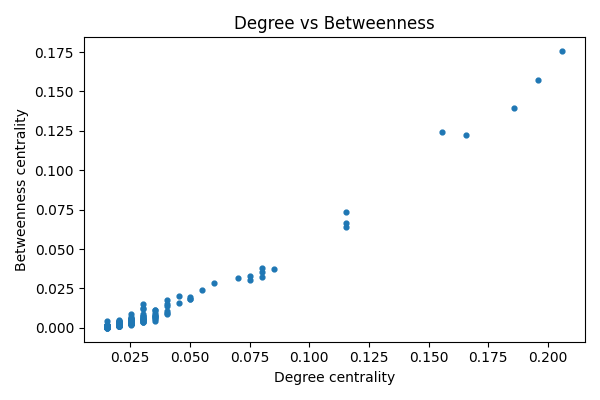
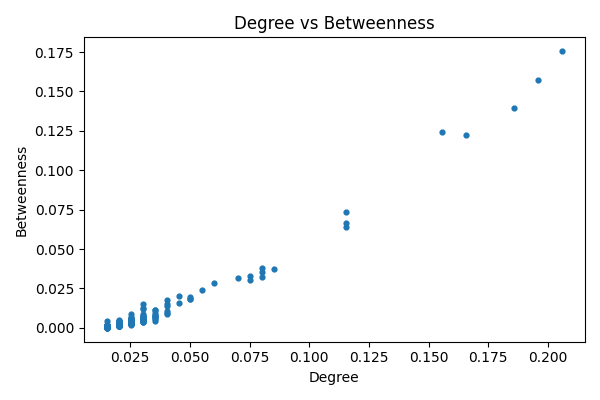
Initial commi

Changed region(s): [[0.03, 0.27, 0.06, 0.69], [0.45, 0.93, 0.66, 0.96]]

diff --git a/src/ppi_centrality_project.py b/src/ppi_centrality_project.py
@@ -1,127 +1,66 @@
 #!/usr/bin/env python3
 """
 ppi_centrality_project.py
+Compute centrality measures on a PPI graph (synthetic or from file).
+Outputs centralities.csv and several PNG plots into an output directory.
 
-Usage examples:
-# 1) Run with your edge list (tab-separated, header or no header):
-python ppi_centrality_project.py --input path/to/edges.tsv --colA "ProteinA" --colB "ProteinB" --sep "\t"
+Usage:
+  # synthetic demo
+  python src/ppi_centrality_project.py --synthetic --out output
 
-# 2) If you don't have a file, create a synthetic PPI-like graph:
-python ppi_centrality_project.py --synthetic
-
-# 3) Make report (DOCX + PPTX):
-python ppi_centrality_project.py --synthetic --make-report
-
-Outputs (default):
-- ./output/centralities.csv
-- ./output/degree_distribution.png
-- ./output/betweenness_distribution.png
-- ./output/degree_vs_betweenness.png
-- ./output/network_visualization.png
-- optional ./output/PPI_Project_Report.docx
-- optional ./output/PPI_Project_Presentation.pptx
+  # using a file (tab-separated)
+  python src/ppi_centrality_project.py --input data/yourfile.tsv --sep "\t" --colA "Official Symbol Interactor A" --colB "Official Symbol Interactor B" --out output
 """
-
 import argparse
 import os
 import sys
-from typing import Tuple
-
-import matplotlib.pyplot as plt
 import networkx as nx
 import pandas as pd
-
-# Optional imports for report generation
-try:
-    from docx import Document
-    from docx.shared import Inches
-    from pptx import Presentation
-    from pptx.util import Inches as PPTInches
-    REPORT_LIBS_AVAILABLE = True
-except Exception:
-    REPORT_LIBS_AVAILABLE = False
-
+import matplotlib.pyplot as plt
 
 def ensure_dir(path: str):
-    if not os.path.exists(path):
-        os.makedirs(path)
-
+    os.makedirs(path, exist_ok=True)
 
 def load_edge_list(path: str, sep: str = "\t", colA: str = None, colB: str = None) -> pd.DataFrame:
-    """
-    Load an edge list file and return a DataFrame with two columns ['A','B'].
-    If colA/colB provided, use them; else try to infer common column names.
-    """
     df_raw = pd.read_csv(path, sep=sep, header=0, dtype=str, low_memory=False)
-    # normalize column names
-    cols = {c.strip(): c for c in df_raw.columns}
-    # if user provided names
+    cols_map = {c.strip(): c for c in df_raw.columns}
     if colA and colB:
-        if colA not in cols or colB not in cols:
-            raise ValueError(f"Provided column names not found in file. Columns found: {list(df_raw.columns)}")
-        df = df_raw[[cols[colA], cols[colB]]].copy()
+        if colA not in cols_map or colB not in cols_map:
+            raise ValueError(f"Columns not found. Available: {list(df_raw.columns)}")
+        df = df_raw[[cols_map[colA], cols_map[colB]]].copy()
     else:
-        # Try common column names
-        candidates = [
-            ("protein1", "protein2"),
-            ("Protein1", "Protein2"),
-            ("interactor_a", "interactor_b"),
-            ("Official Symbol Interactor A", "Official Symbol Interactor B"),
-            ("A", "B"),
-        ]
-        found = False
-        for a, b in candidates:
-            if a in cols and b in cols:
-                df = df_raw[[cols[a], cols[b]]].copy()
-                found = True
-                break
-        if not found:
-            # fall back: take the first two columns
-            df = df_raw.iloc[:, :2].copy()
+        # pick first two columns
+        df = df_raw.iloc[:, :2].copy()
     df.columns = ["A", "B"]
-    # drop NA and self-loops
-    df = df.dropna(subset=["A", "B"])
+    df = df.dropna(subset=["A","B"])
     df = df[df["A"].astype(str) != df["B"].astype(str)]
     df = df.drop_duplicates()
     return df
 
-
 def build_graph_from_edges(df_edges: pd.DataFrame) -> nx.Graph:
     G = nx.from_pandas_edgelist(df_edges, "A", "B")
-    # remove isolated nodes if any (none usually)
     G.remove_nodes_from(list(nx.isolates(G)))
     return G
 
-
 def generate_synthetic_graph(n_nodes: int = 200, m: int = 3) -> nx.Graph:
-    """
-    Generate a synthetic scale-free graph using Barabasi-Albert model.
-    This resembles many PPI network degree distributions.
-    """
     G = nx.barabasi_albert_graph(n_nodes, m, seed=42)
-    # relabel nodes as "P0", "P1", ...
     mapping = {node: f"P{node}" for node in G.nodes()}
-    G = nx.relabel_nodes(G, mapping)
-    return G
-
+    return nx.relabel_nodes(G, mapping)
 
 def compute_centralities(G: nx.Graph) -> pd.DataFrame:
     print("Computing centralities ...")
-    # degree centrality
     deg = nx.degree_centrality(G)
-    # betweenness (could be slow for very large graphs)
     bet = nx.betweenness_centrality(G, normalized=True)
-    # closeness
     cls = nx.closeness_centrality(G)
-    # eigenvector (may fail to converge on some graphs; handle)
     try:
         eig = nx.eigenvector_centrality(G, max_iter=1000)
-    except Exception as e:
-        print("eigenvector_centrality failed to converge; falling back to numpy.linalg eig on adjacency.")
+    except Exception:
         eig = nx.eigenvector_centrality_numpy(G)
-    # pagerank
-    pr = nx.pagerank(G)
-
+    try:
+        pr = nx.pagerank(G)
+    except Exception:
+        # fallback simple pagerank if scipy backend missing
+        pr = nx.pagerank_numpy(G)
     df = pd.DataFrame({
         "degree": pd.Series(deg),
         "betweenness": pd.Series(bet),
@@ -129,145 +68,95 @@ def compute_centralities(G: nx.Graph) -> pd.DataFrame:
         "eigenvector": pd.Series(eig),
         "pagerank": pd.Series(pr)
     })
-    # sort descending by degree by default (helpful)
-    df = df.sort_values(by="degree", ascending=False)
-    return df
-
+    return df.sort_values(by="degree", ascending=False)
 
 def save_plots(df: pd.DataFrame, G: nx.Graph, out_dir: str) -> dict:
     plots = {}
-    # Degree distribution
-    plt.figure(figsize=(6, 4))
+    # degree distribution
+    plt.figure(figsize=(6,4))
     plt.hist(df["degree"], bins=30)
     plt.title("Degree Centrality Distribution")
     plt.xlabel("Degree centrality")
     plt.ylabel("Frequency")
     p1 = os.path.join(out_dir, "degree_distribution.png")
-    plt.tight_layout()
-    plt.savefig(p1)
-    plt.close()
+    plt.tight_layout(); plt.savefig(p1); plt.close()
     plots["degree_distribution"] = p1
 
-    # Betweenness distribution
-    plt.figure(figsize=(6, 4))
+    # betweenness distribution
+    plt.figure(figsize=(6,4))
     plt.hist(df["betweenness"], bins=30)
     plt.title("Betweenness Centrality Distribution")
-    plt.xlabel("Betweenness centrality")
+    plt.xlabel("Betweenness")
     plt.ylabel("Frequency")
     p2 = os.path.join(out_dir, "betweenness_distribution.png")
-    plt.tight_layout()
-    plt.savefig(p2)
-    plt.close()
+    plt.tight_layout(); plt.savefig(p2); plt.close()
     plots["betweenness_distribution"] = p2
 
-    # Scatter: degree vs betweenness
-    plt.figure(figsize=(6, 4))
+    # degree vs betweenness
+    plt.figure(figsize=(6,4))
     plt.scatter(df["degree"], df["betweenness"], s=12)
     plt.title("Degree vs Betweenness")
-    plt.xlabel("Degree centrality")
-    plt.ylabel("Betweenness centrality")
+    plt.xlabel("Degree")
+    plt.ylabel("Betweenness")
     p3 = os.path.join(out_dir, "degree_vs_betweenness.png")
-    plt.tight_layout()
-    plt.savefig(p3)
-    plt.close()
+    plt.tight_layout(); plt.savefig(p3); plt.close()
     plots["degree_vs_betweenness"] = p3
 
-    # Network visualization (may be messy for large graphs)
-    plt.figure(figsize=(6, 6))
+    # network visualization (spring layout)
+    plt.figure(figsize=(6,6))
     pos = nx.spring_layout(G, seed=42)
-    nx.draw(G, pos, node_size=20, edge_color="grey", linewidths=0.2)
+    nx.draw(G, pos, node_size=20, edge_color="gray", linewidths=0.2)
     plt.title("Network visualization (spring layout)")
     p4 = os.path.join(out_dir, "network_visualization.png")
-    plt.tight_layout()
-    plt.savefig(p4)
-    plt.close()
+    plt.tight_layout(); plt.savefig(p4); plt.close()
     plots["network_visualization"] = p4
 
     return plots
-
 
 def save_csv(df: pd.DataFrame, out_path: str):
     df.to_csv(out_path, index_label="protein")
     print(f"Wrote centralities CSV to: {out_path}")
 
-
-# m
-
-def topk_report(df: pd.DataFrame, k: int = 10) -> str:
-    lines = []
-    lines.append("Top proteins by centrality measures (top {}):\n".format(k))
+def topk_print(df: pd.DataFrame, k: int = 10):
+    print(f"\nTop {k} proteins by centrality:")
     for col in df.columns:
         topk = df[col].nlargest(k).index.tolist()
-        lines.append(f"{col} top-{k}: {', '.join(map(str, topk))}")
-    return "\n".join(lines)
-
+        print(f"{col}: {', '.join(map(str, topk))}")
 
 def parse_args():
-    parser = argparse.ArgumentParser(description="PPI centrality analysis script")
-    parser.add_argument("--input", "-i", type=str, default=None,
-                        help="Path to edge list file (tsv/csv). If omitted, synthetic graph is used.")
-    parser.add_argument("--sep", type=str, default="\t", help="Separator for input file (default: tab). Use '\\t' or ','")
-    parser.add_argument("--colA", type=str, default=None, help="Column name for protein A (if header present)")
-    parser.add_argument("--colB", type=str, default=None, help="Column name for protein B (if header present)")
-    parser.add_argument("--out", "-o", type=str, default="output", help="Output directory")
-    parser.add_argument("--synthetic", action="store_true", help="Force synthetic graph (ignore --input)")
-    parser.add_argument("--nodes", type=int, default=200, help="Nodes for synthetic graph (default 200)")
-    parser.add_argument("--m", type=int, default=3, help="Edges per new node for synthetic BA graph (default 3)")
-    parser.add_argument("--make-report", action="store_true", help="Generate DOCX and PPTX report (requires python-docx and python-pptx)")
-    parser.add_argument("--topk", type=int, default=10, help="Top-k to print in terminal")
-    return parser.parse_args()
-
+    p = argparse.ArgumentParser()
+    p.add_argument("--input", "-i", type=str, default=None)
+    p.add_argument("--sep", type=str, default="\t")
+    p.add_argument("--colA", type=str, default=None)
+    p.add_argument("--colB", type=str, default=None)
+    p.add_argument("--out", "-o", type=str, default="output")
+    p.add_argument("--synthetic", action="store_true")
+    p.add_argument("--nodes", type=int, default=200)
+    p.add_argument("--m", type=int, default=3)
+    p.add_argument("--topk", type=int, default=10)
+    return p.parse_args()
 
 def main():
     args = parse_args()
-    outdir = args.out
-    ensure_dir(outdir)
+    ensure_dir(args.out)
 
-    # Load or generate graph
     if args.input and not args.synthetic:
-        print(f"Loading edge list from {args.input} (sep='{args.sep}')")
-        try:
-            df_edges = load_edge_list(args.input, sep=args.sep, colA=args.colA, colB=args.colB)
-            G = build_graph_from_edges(df_edges)
-            print(f"Loaded graph: {G.number_of_nodes()} nodes, {G.number_of_edges()} edges")
-        except Exception as e:
-            print(f"Failed to load input file: {e}")
-            print("Falling back to synthetic graph.")
-            G = generate_synthetic_graph(n_nodes=args.nodes, m=args.m)
-            print(f"Synthetic graph: {G.number_of_nodes()} nodes, {G.number_of_edges()} edges")
+        print(f"Loading edges from: {args.input}")
+        df_edges = load_edge_list(args.input, sep=args.sep, colA=args.colA, colB=args.colB)
+        G = build_graph_from_edges(df_edges)
+        print(f"Loaded graph with {G.number_of_nodes()} nodes and {G.number_of_edges()} edges.")
     else:
         print("Generating synthetic PPI-like graph.")
         G = generate_synthetic_graph(n_nodes=args.nodes, m=args.m)
         print(f"Synthetic graph: {G.number_of_nodes()} nodes, {G.number_of_edges()} edges")
 
-    # Compute centralities
-    df_c = compute_centralities(G)
-
-    # Save CSV
-    csv_path = os.path.join(outdir, "centralities.csv")
-    save_csv(df_c, csv_path)
-
-    # Save plots
-    plots = save_plots(df_c, G, outdir)
+    df = compute_centralities(G)
+    csv_path = os.path.join(args.out, "centralities.csv")
+    save_csv(df, csv_path)
+    plots = save_plots(df, G, args.out)
     print("Saved plots:", plots)
-
-    # Print top-k to terminal
-    print("\n" + topk_report(df_c, k=args.topk))
-
-    # Optional report and slides
-    if args.make_report:
-        docx_path = os.path.join(outdir, "PPI_Project_Report.docx")
-        pptx_path = os.path.join(outdir, "PPI_Project_Presentation.pptx")
-        if not REPORT_LIBS_AVAILABLE:
-            print("\nNote: docx/pptx libraries are not available in this environment.")
-            print("Install python-docx and python-pptx to enable report generation:")
-            print("pip install python-docx python-pptx")
-        else:
-            make_docx_report(plots, docx_path)
-            make_pptx(plots, pptx_path)
-
-    print("\nAll done. Outputs saved to:", os.path.abspath(outdir))
-
+    topk_print(df, k=args.topk)
+    print("\nDone. Check the output/ folder for results.")
 
 if __name__ == "__main__":
     main()
